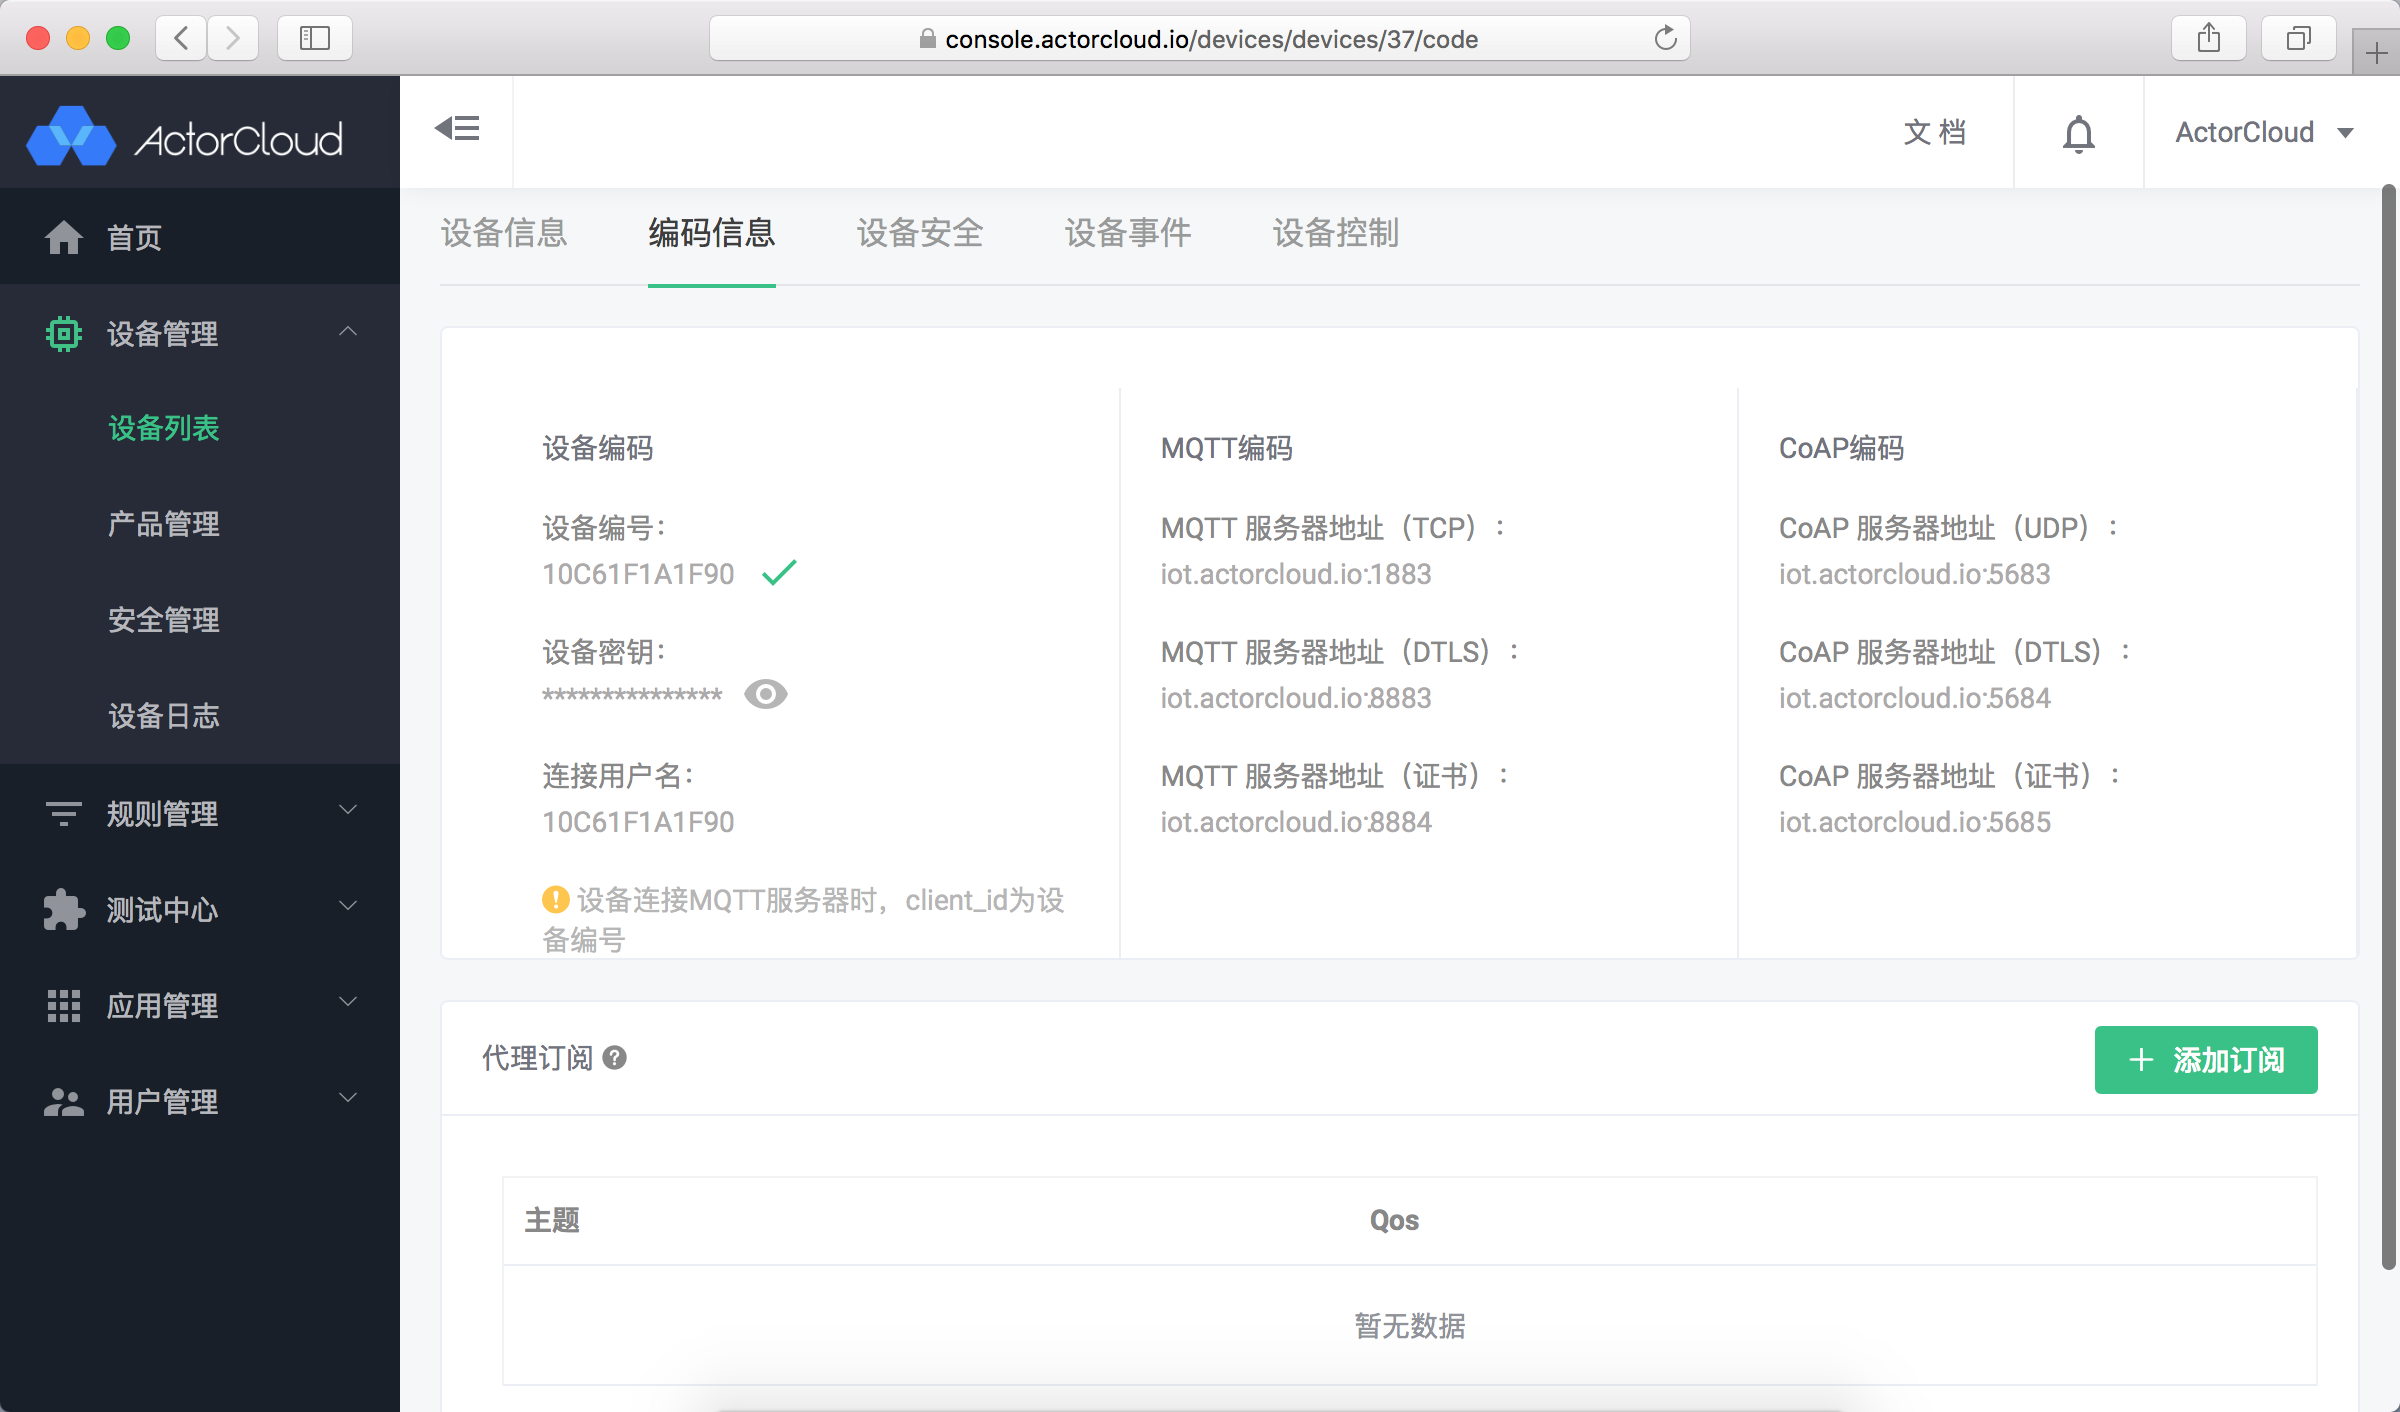
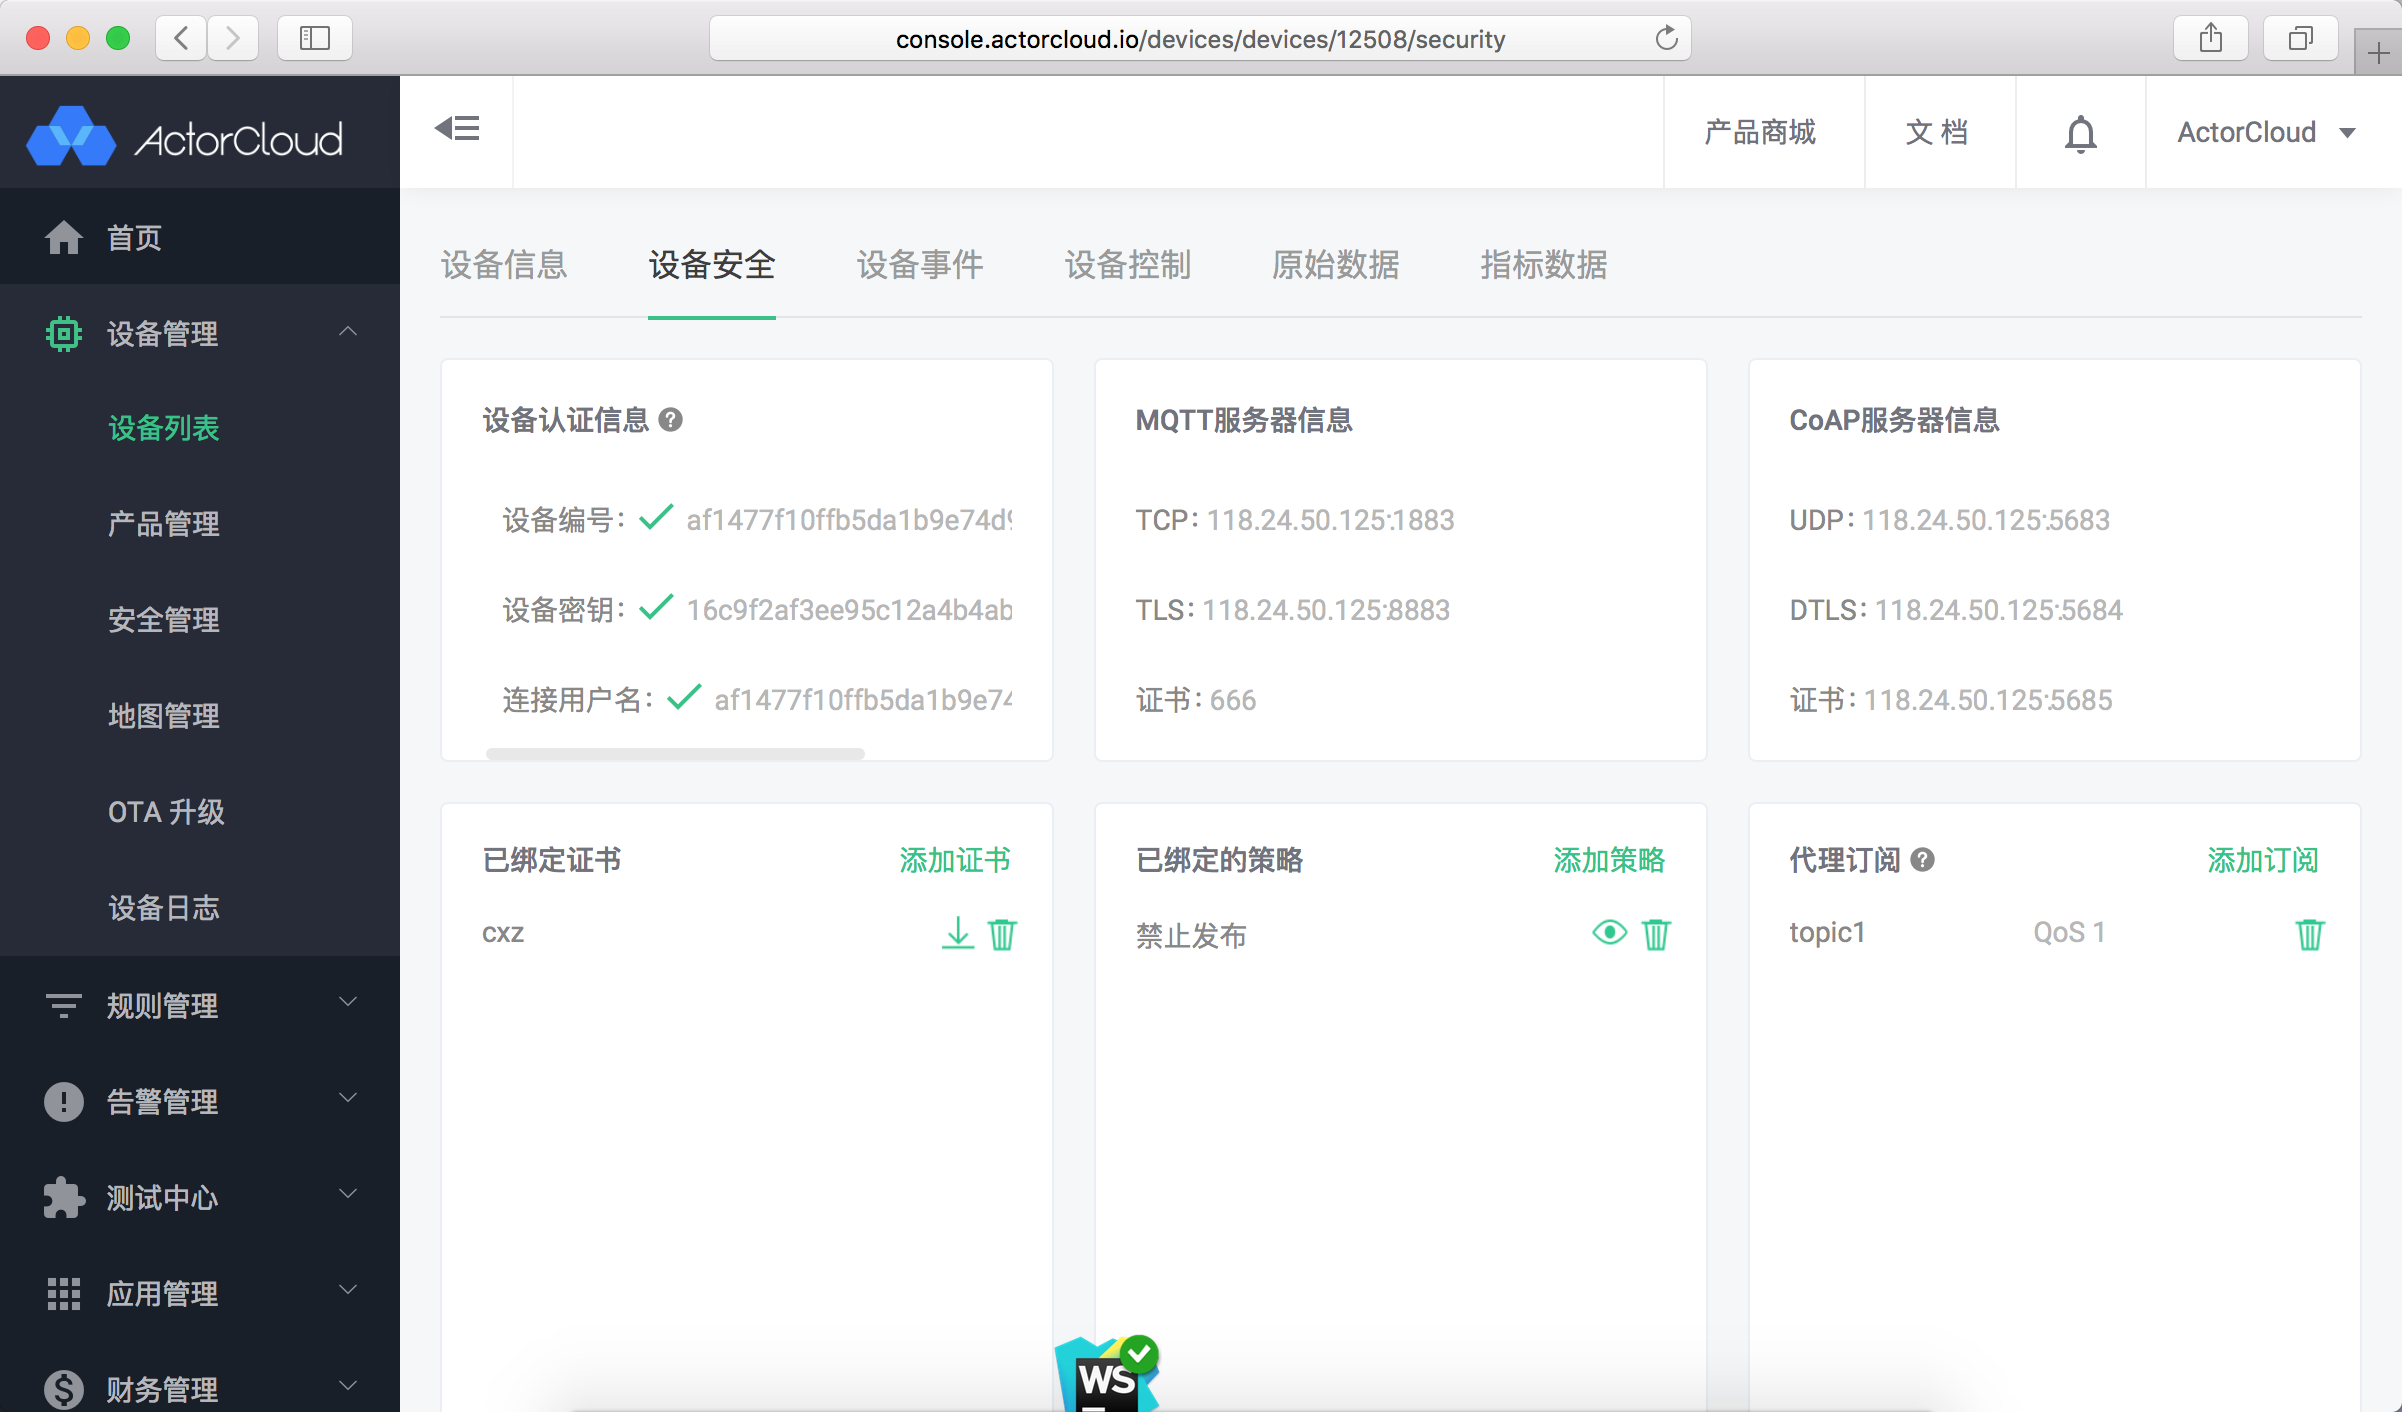
feat(device): 设备围栏信息等更新

diff --git a/device/device.md b/device/device.md
@@ -1,23 +1,34 @@
 # 设备
 
 
-通过点击**设备**列表页设备名称，可进入设备信息页。该页包括**设备信息**、**编码信息**、**设备安全**、**设备事件**、**设备控制**五个页面，其功能与展示信息如下：
+通过点击**设备**列表页设备名称，可进入设备信息页。该页包括**设备信息**、**设备安全**、**设备事件**、**设备控制**、**原始数据**、**指标数据**六个页面，其功能与展示信息如下：
 
 ### 设备信息
 
-- 设备状态信息，设备在线时显示连接时间、客户端 IP、心跳时间；
+- 设备状态信息：设备在线时显示连接时间、客户端 IP、心跳时间；
 
-- 设备基本信息如设备名称，设备类型认证方式等，如有经纬度信息将显示设备位置地图；
+- 运行日志：即设备连接上/下线信息；
 
-- 设备运行日志，即连接上/下线信息。
+- 设备告警：当前设备触发的告警记录；
+
+- 设备基本信息：设备名称，设备类型认证方式，上联系统、控制台信息等。
+
+- 位置信息：在地图上展示设备位置、围栏范围等信息；
+
+- 终端列表：设备为网关时展示包含终端列表。
 
 ![](/assets/device_info.png)
 
 
+分别点击设备基础信息，位置信息右上角编辑按钮可进行信息修改：
 
-### 编码信息
+![](/assets/device_map_edit.png)
 
-包含有设备认证、服务器连接等信息：
+
+
+### 设备安全
+
+包含有设备认证、服务器连接、证书与策略等信息：
 
 - 设备编号：设备连接 MQTT 服务器时，client_id 即为设备编号；
 
@@ -27,20 +38,16 @@
 
 - MQTT 编码、CoAP 编码；
 
-- 代理订阅列表及代理订阅操作。
+- 已绑定证书：绑定/取消绑定操作，绑定证书下载；
+
+- 已绑定策略：绑定/取消绑定策略操作。
+
+- 代理订阅：代理订阅相关操作。
 
 ![](/assets/device_decode.png)
 
-> 编码信息为设备连接认证重要信息，请妥善保管。
+> 编码信息、证书为设备连接认证重要信息，请妥善保管。
 
-
-### 设备安全
-
-- 已绑定证书列表，绑定/取消绑定操作，绑定证书下载；
-
-- 已绑定策略列表，绑定/取消绑定策略操作。
-
-![](/assets/device_bind.png)
 
 
 
@@ -54,12 +61,30 @@
 
 ### 设备控制
 
-- **ActorCloud** 或 **外部应用** 向该设备下发的消息，点击**添加指令**可向当前设备发送 JSON 格式的消息。
+- **ActorCloud** 或 **外部应用** 向该设备下发的消息，点击**添加指令**可向当前设备即时或定时发送 JSON 格式的消息。
 
 ![](/assets/device_control.png)
 
 
-### 导出设备
-- **ActorCloud** 支持将平台设备导出为 Excel 文件，设备列表页点击**导出为 Excel**即可导出。
+### 原始数据
 
-![](/assets/device_export.png)
+- 最近24小时的功能点数据（数值类型的功能点）。
+
+### 指标数据
+
+- 按不同的时间维度、聚合方式聚合后的功能点数据。
+
+
+### 列表操作
+
+设备列表页可进行更多设备操作：
+
+- 批量导出：将平台设备导出为 Excel 文件，无需选中设备，设备列表页点击**批量导出**即可导出全部设备；
+
+- 批量导入：使用 Excel 模板文件导入设备信息；
+
+- 登录设备：登录到设备控制台；
+
+- 创建分组：从选中设备创建分组，仅限同一产品下设备。
+
+![](/assets/device_list.png)
